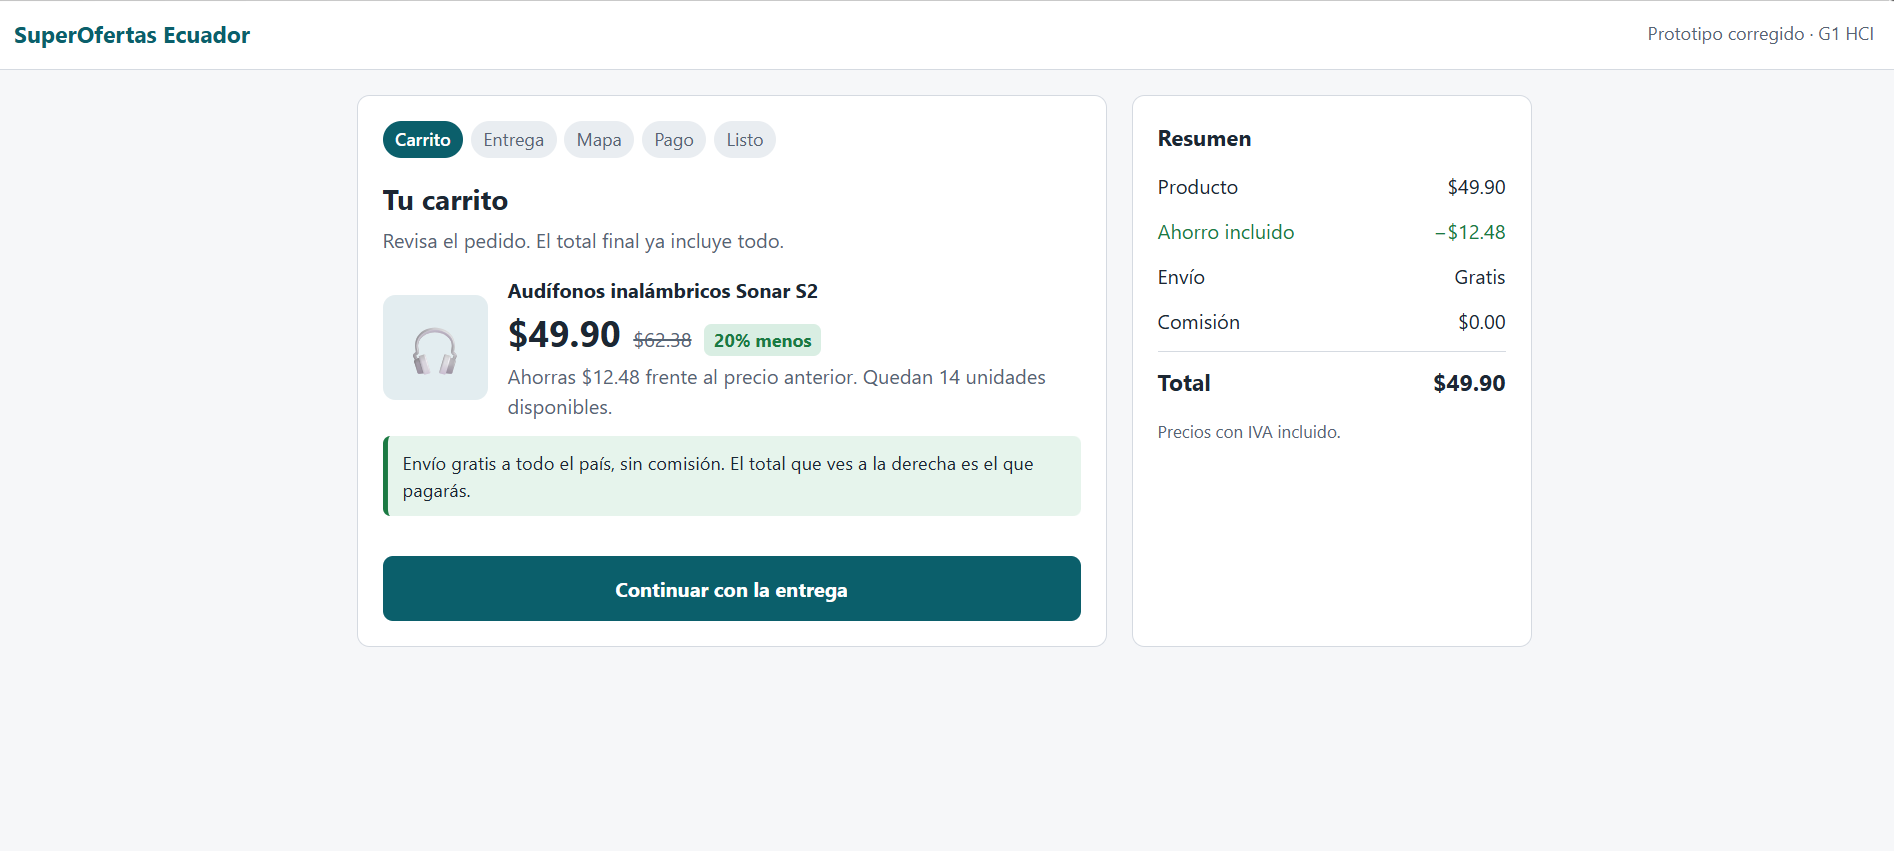
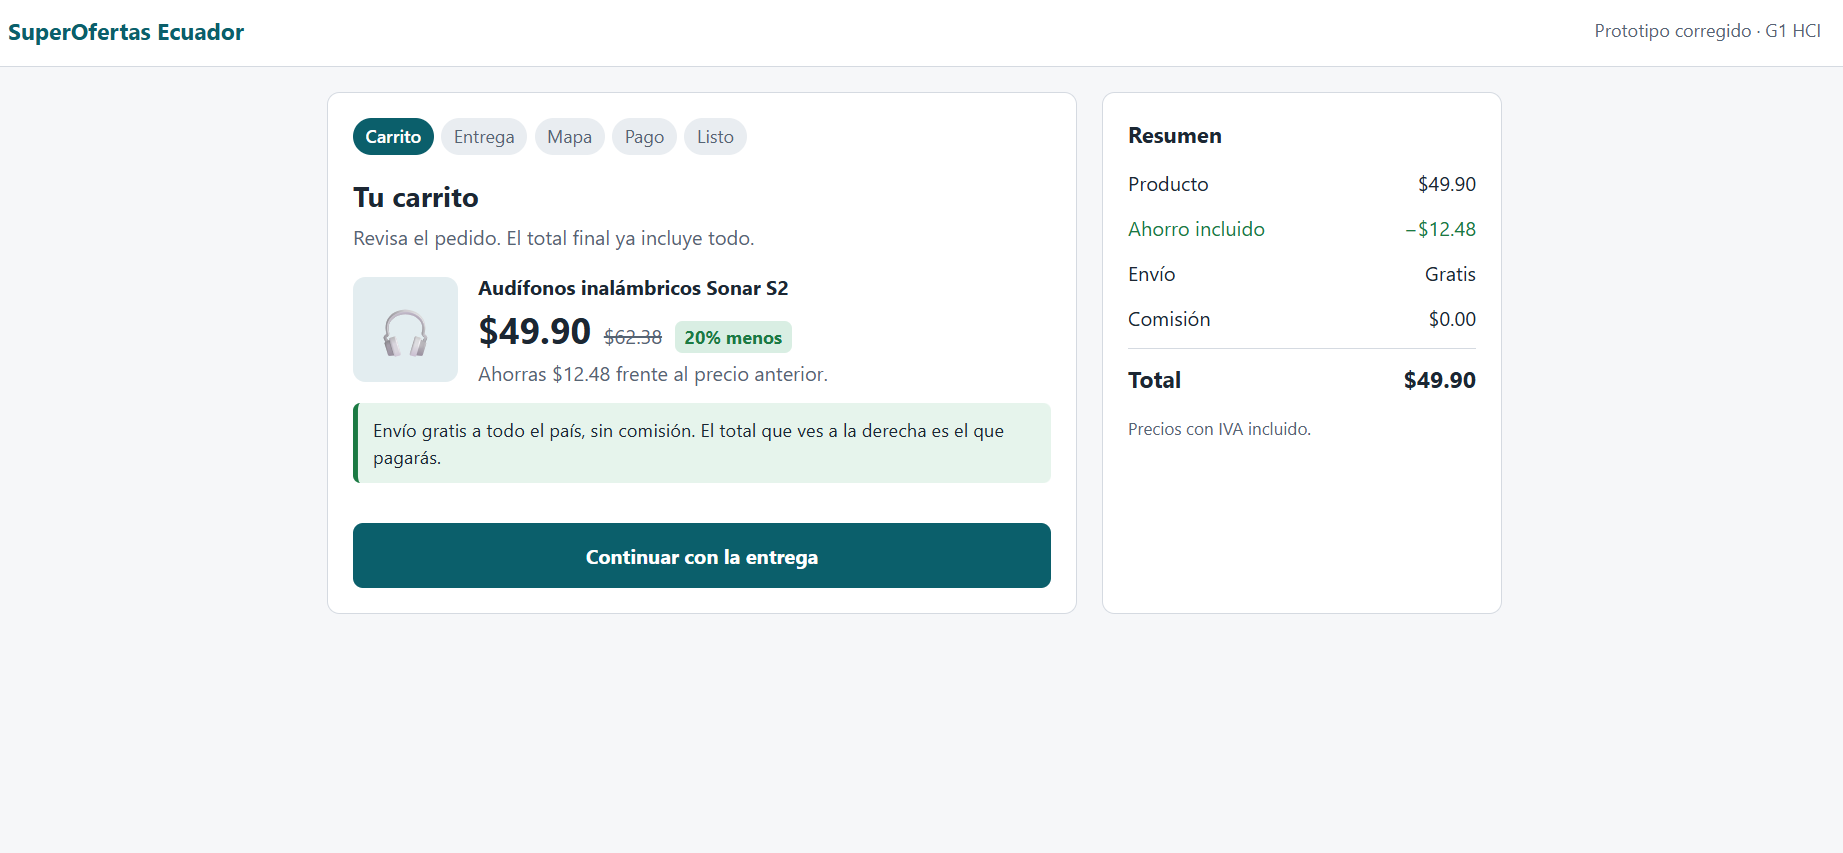
Correcion prototipo

diff --git a/src/index.html b/src/index.html
@@ -66,7 +66,7 @@ input.bad{border-color:var(--err)}
     <div class="product"><div class="thumb" aria-hidden="true">🎧</div>
       <div><b>Audífonos inalámbricos Sonar S2</b>
         <div class="price"><b>$49.90</b><span class="old">$62.38</span><span class="tag">20% menos</span></div>
-        <div class="sub" style="margin:2px 0 0">Ahorras $12.48 frente al precio anterior. Quedan 14 unidades disponibles.</div></div></div>
+        <div class="sub" style="margin:2px 0 0">Ahorras $12.48 frente al precio anterior.</div></div></div>
     <div class="note ok">Envío gratis a todo el país, sin comisión. El total que ves a la derecha es el que pagarás.</div>
     <button class="btn primary" data-go="1">Continuar con la entrega</button>
   </div>
@@ -133,14 +133,14 @@ input.bad{border-color:var(--err)}
 const $=id=>document.getElementById(id),names=["Carrito","Entrega","Mapa","Pago","Listo"];let cur=0,forceFail=false;
 function go(n){cur=n;document.querySelectorAll(".step").forEach(s=>s.classList.toggle("hide",+s.dataset.s!==n));
  $("steps").innerHTML=names.map((t,i)=>`<li class="${i==n?"on":i<n?"done":""}">${t}</li>`).join("");
- if(n==2){$("maddr").textContent=full()}window.scrollTo(0,0)}
+ if(n==2){$("maddr").textContent=full();centerPin();$("mapmsg").innerHTML='Dirección: <b id="maddr">'+full()+'</b>'}window.scrollTo(0,0)}
 const full=()=>`${$("addr").value}, ${$("city").value}, ${$("prov").value}`;
 document.querySelectorAll("[data-go]").forEach(b=>b.onclick=()=>go(+b.dataset.go));
 function check(id,ok,msg){const e=$("e-"+id);$(id).classList.toggle("bad",!ok);e.textContent=ok?"":msg;return ok}
 $("to-map").onclick=()=>{const r=[check("prov",$("prov").value,"Elige tu provincia."),check("city",$("city").value.trim(),"Escribe tu ciudad."),check("addr",$("addr").value.trim().length>5,"Escribe tu calle y número."),check("name",$("name").value.trim().split(" ").length>1,"Escribe nombre y apellido."),check("tel",/^\d{9,10}$/.test($("tel").value.replace(/\D/g,"")),"Escribe un teléfono de 9 o 10 dígitos."),check("mail",/^\S+@\S+\.\S+$/.test($("mail").value),"Escribe un correo válido, como nombre@correo.com.")];
  if(r.every(Boolean))go(2);else document.querySelector(".bad").focus()};
 $("geo").onclick=()=>{$("prov").value="Pichincha";$("city").value="Quito";$("addr").value="Av. Amazonas N24-12 y Colón";$("geo").textContent="Ubicación aplicada. Revisa los datos."};
-const map=$("map"),pin=$("pin");let drag=false;pin.style.left="50%";pin.style.top="60%";
+const map=$("map"),pin=$("pin");let drag=false;function centerPin(){pin.style.left="50%";pin.style.top="50%"}centerPin();
 function mv(e){const r=map.getBoundingClientRect();pin.style.left=Math.min(Math.max(e.clientX-r.left,0),r.width)+"px";pin.style.top=Math.min(Math.max(e.clientY-r.top+15,15),r.height)+"px"}
 pin.onpointerdown=e=>{drag=true;pin.setPointerCapture(e.pointerId)};pin.onpointermove=e=>drag&&mv(e);pin.onpointerup=()=>{drag=false;$("mapmsg").innerHTML="Pin ajustado. Si es correcto, pulsa <b>Guardar dirección</b>."};
 $("fail").onclick=()=>{forceFail=true;$("pay").click()};

diff --git a/prototipos/propuesta/README.md b/prototipos/propuesta/README.md
@@ -7,5 +7,8 @@ Código en `src/index.html`. Ábrelo con doble clic en el navegador (no necesita
 2. **Formularios claros y justificados:** etiquetas legibles, provincia en lista, "Usar mi ubicación", sin cédula ni fecha de nacimiento, motivo de cada dato, mapa guiado y "Guardar dirección" como botón principal.
 3. **Pago seguro y sin trampas:** candado y aviso de seguridad, casilla de ofertas desmarcada, errores claros que dicen que no hubo cobro, paleta sobria.
 
+## Alcance del prototipo
+El mapa es una **simulación**: el pin no se geolocaliza a partir de la dirección escrita. Siempre aparece centrado en el mapa y la persona puede arrastrarlo para ajustarlo. En una versión real, el pin se centraría con un servicio de geocodificación a partir de la dirección ingresada.
+
 ## Issues que resuelve
 Completar con los números reales: Mejora 1 → #1,#2,#3 · Mejora 2 → #4, #5, #6, #7, #8 · Mejora 3 → #9, #10, #11, #12
